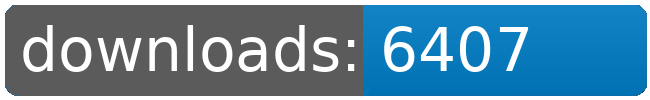
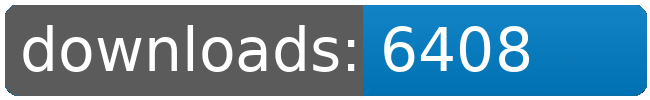
dl log written

Changed region(s): [[0.7692, 0.24, 0.8308, 0.72]]

diff --git a/README.md b/README.md
@@ -32,8 +32,8 @@
 		<td>5229</td>
 		<td>5252</td>
 		<td>5275</td>
-		<td>5283</td>
-		<td>+ 8</td>
+		<td>5284</td>
+		<td>+ 9</td>
 	</tr>
 	<tr>
 		<td>Fundamental.Outfit.Expansion</td>
@@ -43,8 +43,8 @@
 		<td>6351</td>
 		<td>6374</td>
 		<td>6398</td>
-		<td>6407</td>
-		<td>+ 9</td>
+		<td>6408</td>
+		<td>+ 10</td>
 	</tr>
 	<tr>
 		<td>Jaws</td>
@@ -109,8 +109,8 @@
 		<td></td>
 		<td></td>
 		<td></td>
-		<td>44121</td>
-		<td>64</td>
+		<td>44123</td>
+		<td>66</td>
 	</tr>
 </table>
 </sub></sup>
@@ -135,8 +135,8 @@
 		<td>6351</td>
 		<td>6374</td>
 		<td>6398</td>
-		<td>6407</td>
-		<td>+ 9</td>
+		<td>6408</td>
+		<td>+ 10</td>
 	</tr>
 	<tr>
 		<td>Louise.Conglomerate.Shipyards</td>
@@ -190,8 +190,8 @@
 		<td>5229</td>
 		<td>5252</td>
 		<td>5275</td>
-		<td>5283</td>
-		<td>+ 8</td>
+		<td>5284</td>
+		<td>+ 9</td>
 	</tr>
 	<tr>
 		<td>Jaws</td>
@@ -223,8 +223,8 @@
 		<td></td>
 		<td></td>
 		<td></td>
-		<td>44121</td>
-		<td>64</td>
+		<td>44123</td>
+		<td>66</td>
 	</tr>
 </table>
 </sub></sup>
